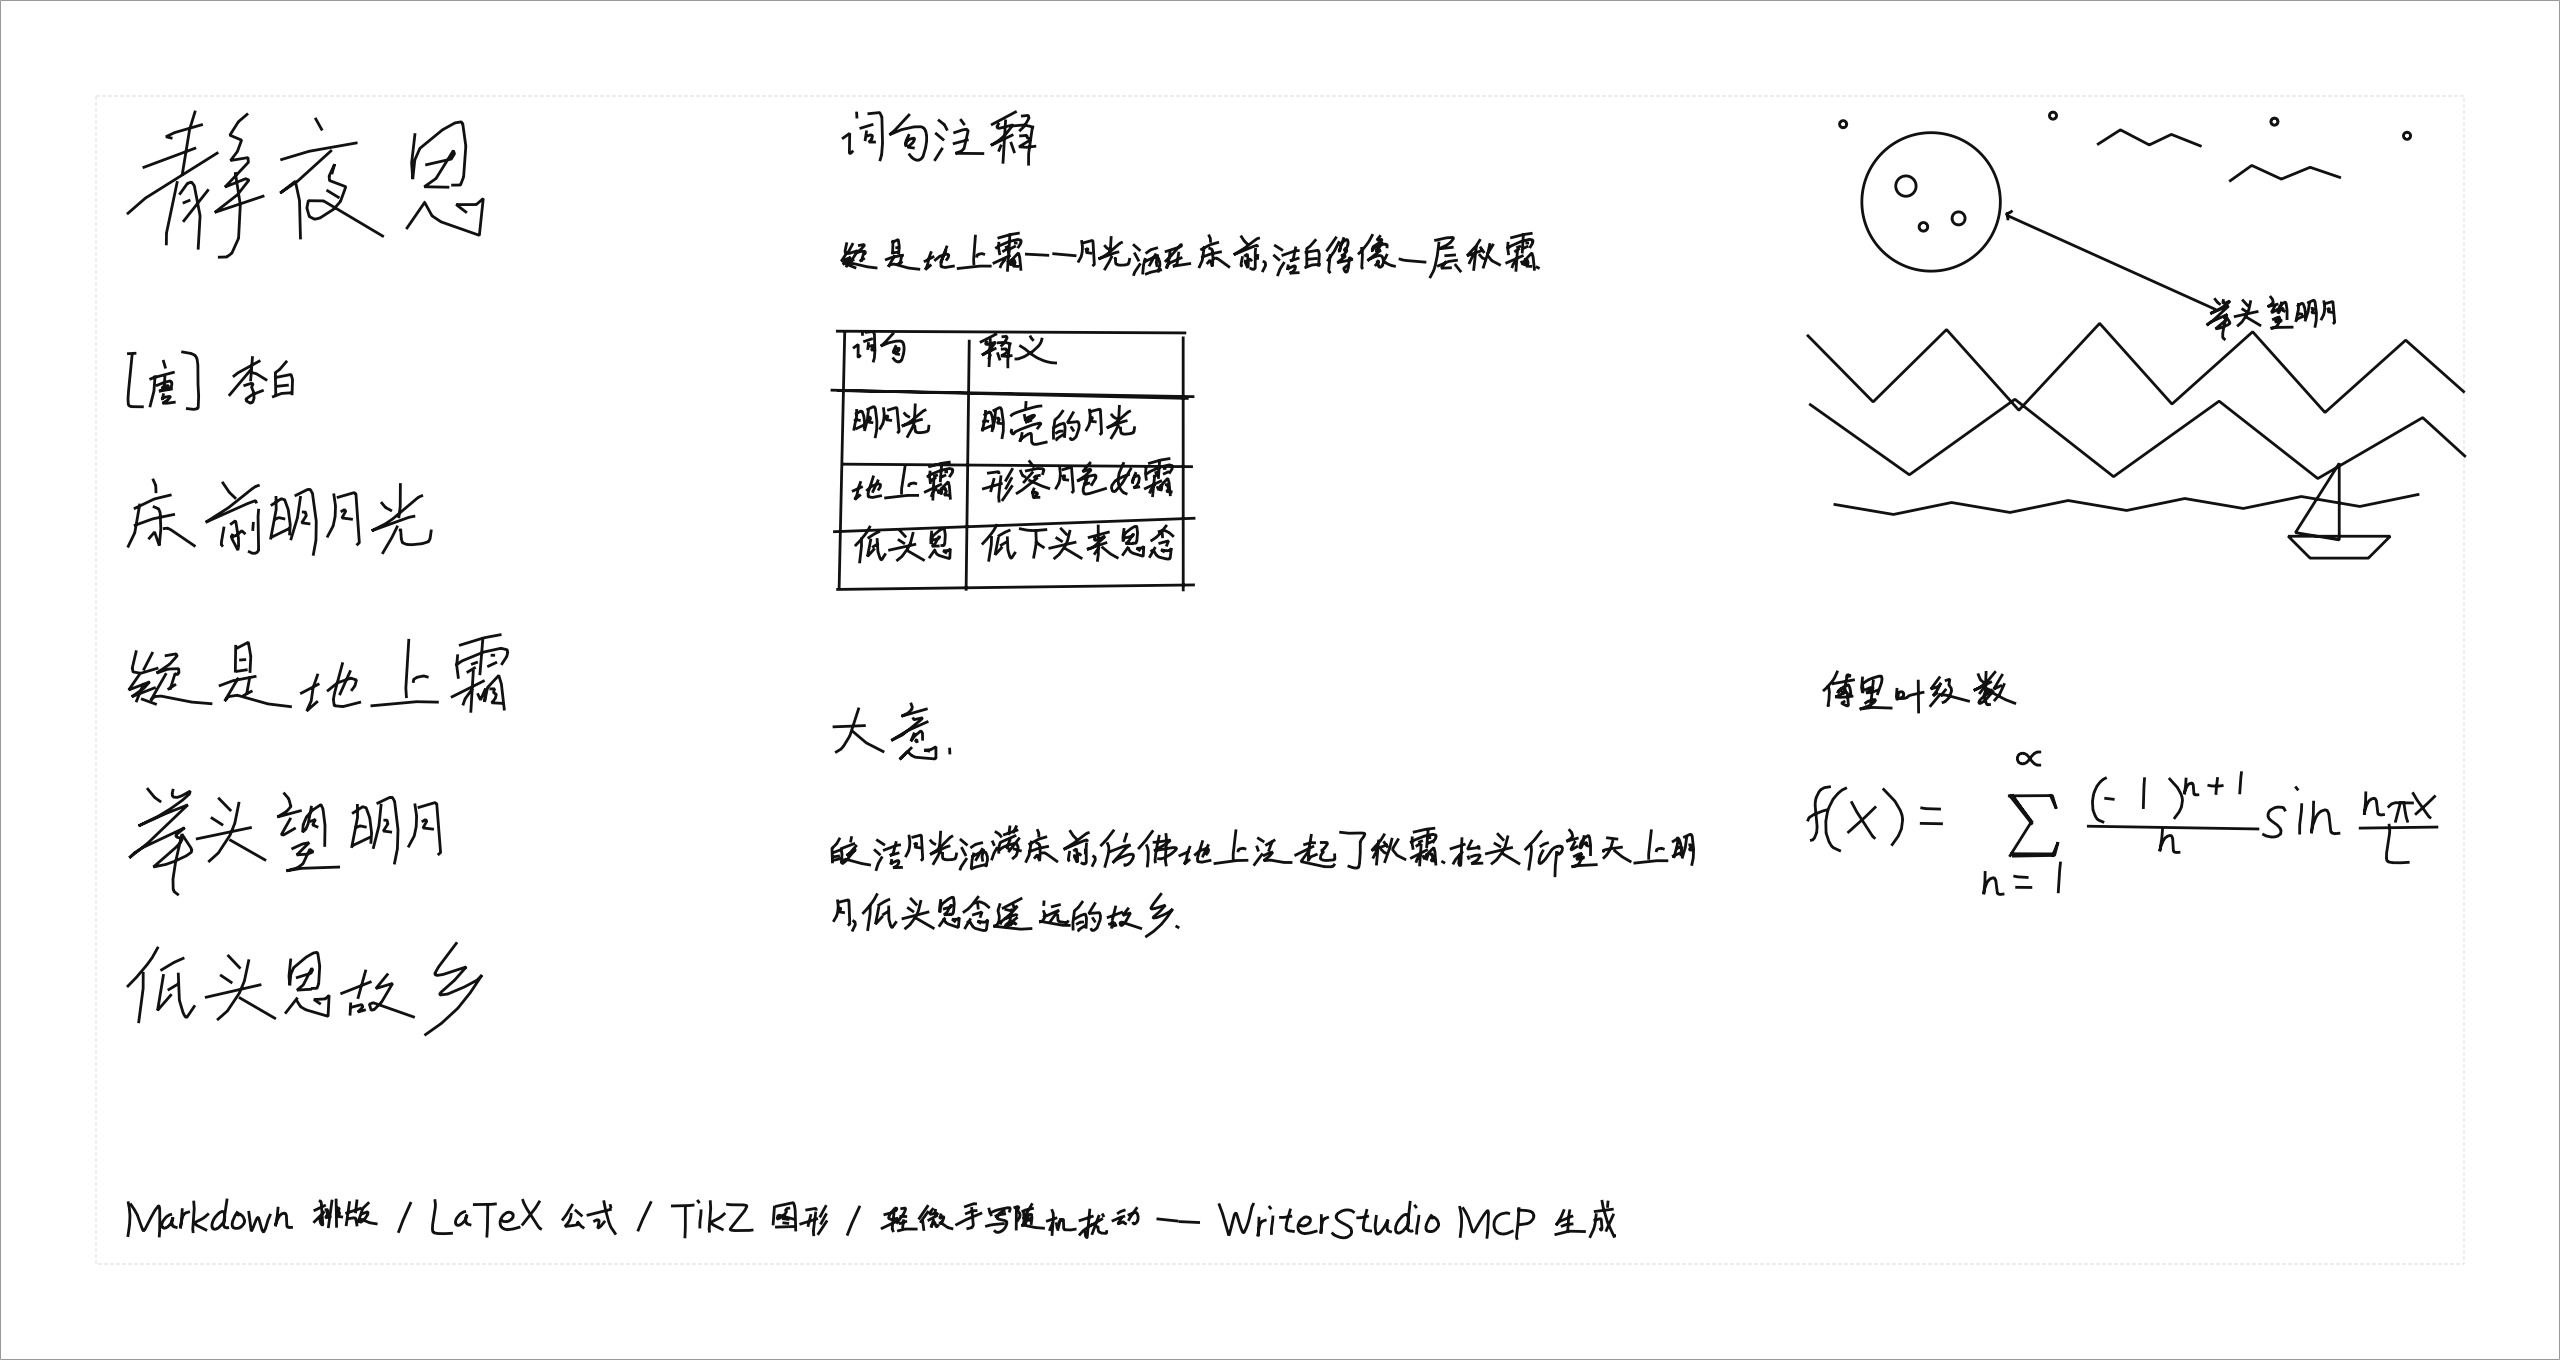
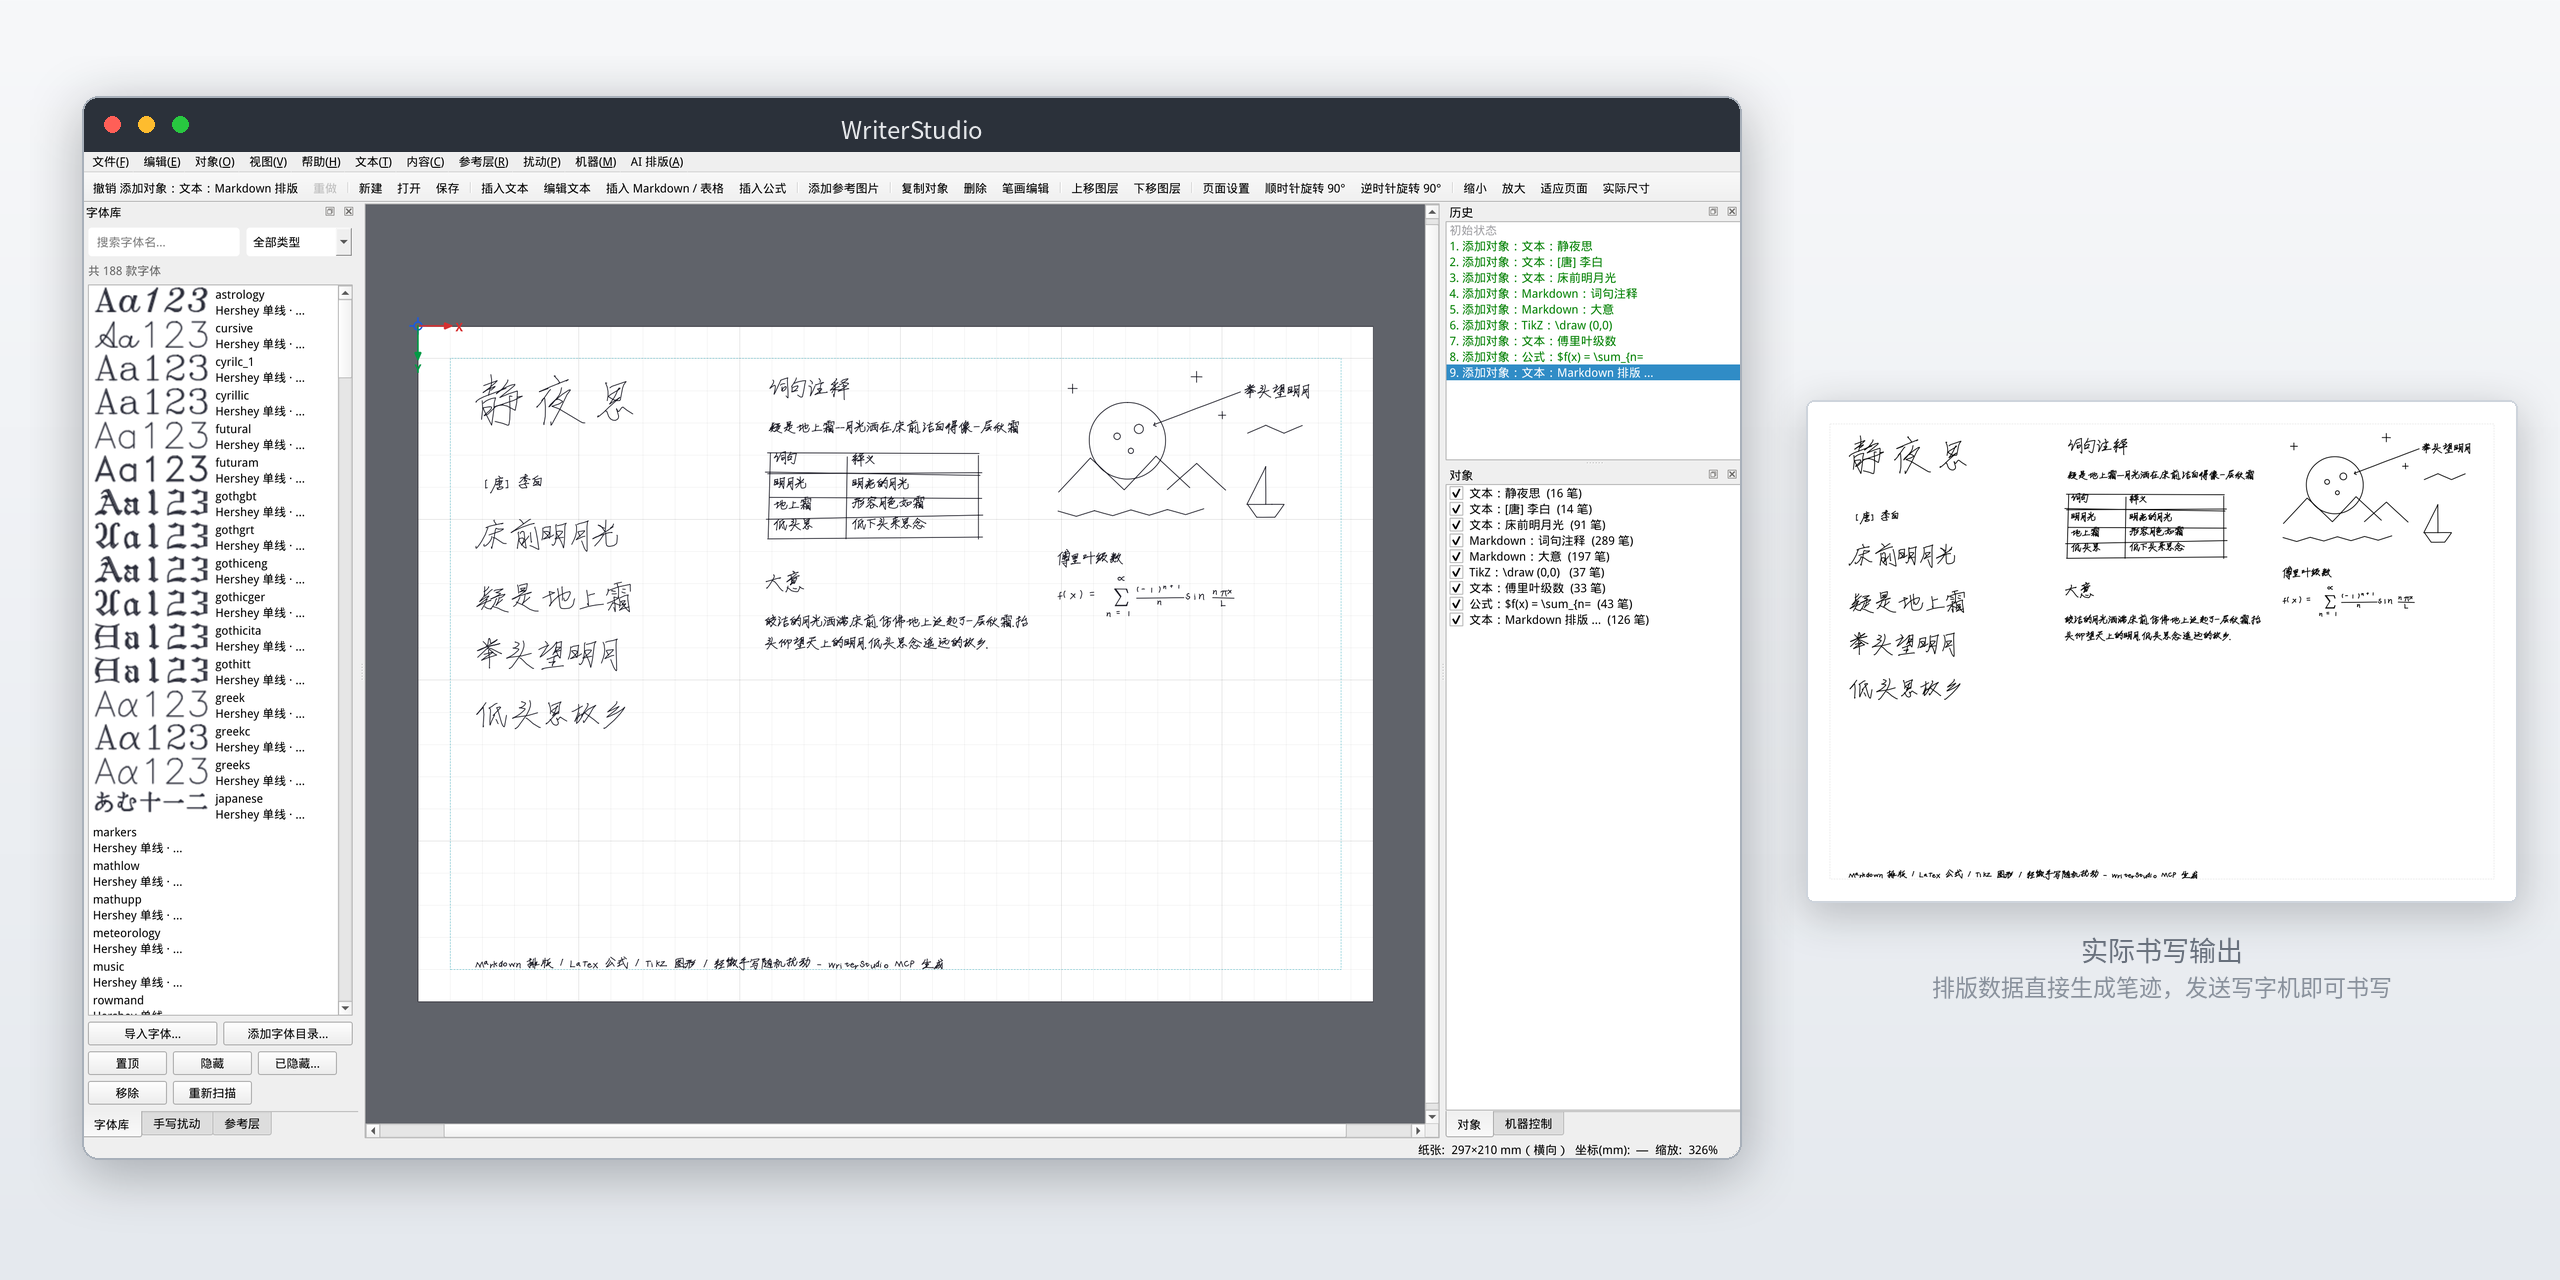
README 主图加入软件界面截图
* 主图改为：WriterStudio 真实界面（字体库/历史/对象面板）+ 右侧
  实际书写输出卡片，一图同时展示软件与排版结果
* 界面中的整页内容由 MCP 工具进程内重建（布局检查 0 问题），
  窗口以 2x 采样抓图，历史面板保留 AI 逐步生成的记录

diff --git a/README.md b/README.md
@@ -1,7 +1,7 @@
 GRBL 写字机上位机软件。文字、表格、LaTeX公式、TikZ、SVG矢量图，笔画编辑，手写模拟 一个软件全搞定：
 可多字体混排、可调手写随机扰动、可纸张对齐参考层。
 
-![一页手写：古诗、Markdown 注释与表格、TikZ 月夜线稿、LaTeX 公式——全部由手写字库加轻微随机扰动渲染，并由 MCP 智能排版自动生成](resources/preview.png)
+![WriterStudio 软件界面：MCP 智能排版生成一页《静夜思》——古诗、Markdown 注释与表格、TikZ 月夜线稿、LaTeX 公式，手写字库加轻微随机扰动，右侧为排版得到的实际书写输出](resources/preview.png)
 
 ## 下载与使用
 
